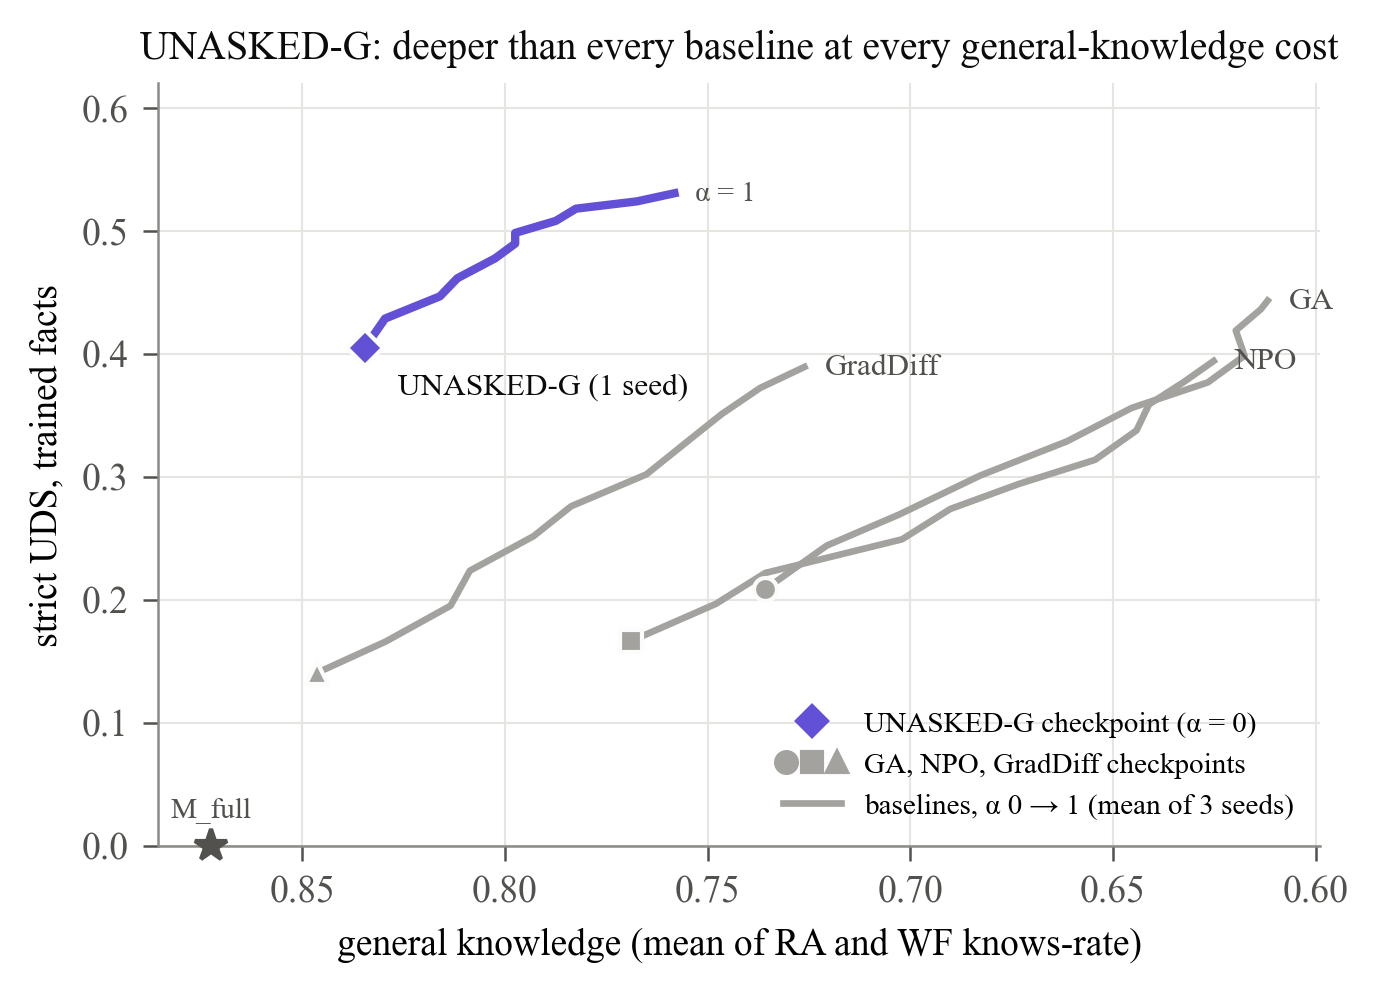
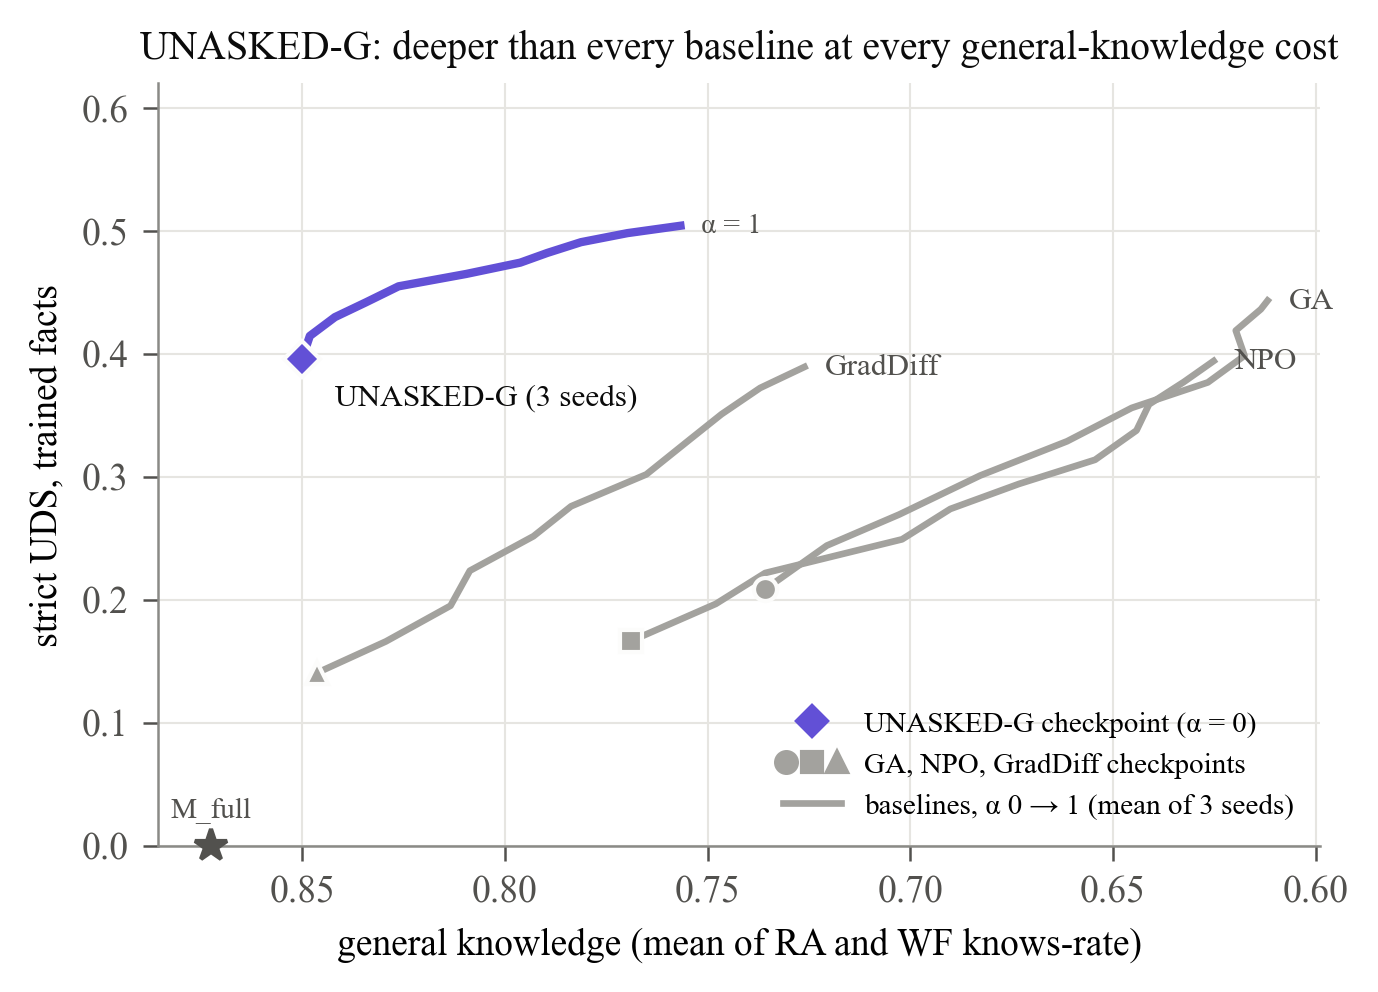
RESULTS 20: UNASKED-G over three seeds, at the checkpoint and at equal utility

Changed region(s): [[0.1872, 0.1875, 0.4993, 0.4062]]

diff --git a/RESULTS.md b/RESULTS.md
@@ -1632,83 +1632,104 @@ UNASKED-G uses λ = 3 (ANALYSIS_PLAN H9).
 
 ---
 
-## 20. UNASKED-G: deeper and broader than GradDiff at its R, short of it on RA (17 Oct 2026, H9, exploratory)
+## 20. UNASKED-G: deeper and broader than GradDiff at equal or better utility (17 Oct 2026, H9, exploratory)
 
 UNASKED-G (`docs/UNASKED.md`, ANALYSIS_PLAN H9) is UNASKED with two anchors:
 * a general-knowledge anchor: 400 real-world QA pairs from Natural Questions,
   none sharing an answer, name or title with an RA/WF item;
 * the TOFU retain anchor at weight 3.
 
-Its criteria C1-C4 against GradDiff were fixed before its first run. Seed 0
-ran on the H100 slice at commit `db84af9`, with the checkpoint at epoch 19.
-R never fell below its starting 0.805 in any epoch.
+Its criteria C1-C4 against GradDiff were fixed before its first run. Three
+seeds ran on the H100 slice (seed 0 at commit `db84af9`; seeds 1-2 after it).
+Every seed kept its last epoch, and R never fell near the floor.
 
-| Checkpoint (α = 0) | Strict UDS, trained | UDS, trained | Breadth, trained | Strict UDS, held-out | Breadth, held-out | R | RA | WF |
-|---|---|---|---|---|---|---|---|---|
-| **UNASKED-G, seed 0** | **0.405** | **0.479** | **0.309** | **0.259** | **0.320** | **0.805** | **0.840** | **0.829** |
-| GradDiff, mean of 3 seeds | 0.141 | 0.146 | 0.169 | 0.060 | 0.191 | 0.768 | 0.863 | 0.829 |
-| GradDiff, range | 0.120-0.158 | 0.121-0.174 | 0.112-0.220 | 0.053-0.071 | 0.119-0.269 | 0.765-0.775 | 0.85-0.88 | 0.821-0.838 |
-| H9 threshold | ≥ 0.26 per seed | | ≥ 0.32 per seed | | | ≥ 0.768 mean | ≥ 0.863 mean | ≥ 0.829 mean |
+### 20.1 At the checkpoint (α = 0), the pre-registered comparison
 
-**On seed 0:**
-* **C1 depth: met.** Strict depth is 2.9× GradDiff's mean.
-* **C2 breadth: missed by 0.011.** Breadth is 1.8× GradDiff's mean.
-* **C3 utility:** R and WF are met, RA is missed by 0.023.
+| | Strict UDS, trained | Breadth, trained | Strict UDS, held-out | Breadth, held-out | R | RA | WF |
+|---|---|---|---|---|---|---|---|
+| UNASKED-G seed 0 | 0.405 | 0.309 | 0.259 | 0.320 | 0.805 | 0.840 | 0.829 |
+| UNASKED-G seed 1 | 0.381 | 0.297 | 0.292 | 0.422 | 0.792 | 0.860 | 0.846 |
+| UNASKED-G seed 2 | 0.402 | 0.430 | 0.315 | 0.409 | 0.785 | 0.870 | 0.855 |
+| **UNASKED-G, mean** | **0.396** | **0.345** | **0.289** | **0.384** | **0.794** | **0.857** | **0.843** |
+| GradDiff, mean | 0.141 | 0.169 | 0.060 | 0.191 | 0.768 | 0.863 | 0.829 |
+| GradDiff, range | 0.120-0.158 | 0.112-0.220 | 0.053-0.071 | 0.119-0.269 | 0.765-0.775 | 0.85-0.88 | 0.821-0.838 |
+| M_full | 0 | 0 | 0 | 0 | 0.805 | 0.890 | 0.855 |
 
-Neither miss is larger than one seed's measurement noise. That is about 0.09
-for calibrated breadth (400 items over a 0.25 calibration gap) and 0.035 for
-RA (100 items, so 0.023 is two to three items).
+Against GradDiff's means, UNASKED-G has:
+* 2.8× the strict depth on trained facts and 4.8× on held-out facts;
+* 2.0× the breadth on trained facts and 2.0× on held-out facts;
+* better R (+0.026) and WF (+0.014), and RA 0.006 below (under one item in
+  100, against a sampling sd of about 0.035).
 
-**By the λ_g rule, seeds 1-2 run at λ_g = 1.** C2 failed, so λ_g = 3 is not
-tried: a stronger general anchor would lower breadth further. Seeds 1-2 and
-the R-matched controls of all three seeds are running.
+**The H9 criteria:**
+* **C1 depth: met.** Every seed is ≥ 0.26, and the mean of 0.396 is ≥ 0.282.
+* **C2 breadth: not met.** The mean of 0.345 clears its bar of 0.338, and
+  seed 2 is at 0.430. But seeds 0 and 1 (0.309 and 0.297) fall below the
+  per-seed bar of 0.32.
+* **C3 utility: not met over three seeds.** RA's mean is 0.857 against
+  0.863, and seed 0's RA of 0.840 is below the 0.85 floor. **It is met on the
+  confirmation seeds 1-2**: R 0.789, RA 0.865, WF 0.850.
+* **C4 beyond damage:** the R-matched controls are running.
 
-1. **The anchors trade breadth for general knowledge, and leave depth.**
-   Seed 0, at the checkpoint:
+### 20.2 At equal utility: UNASKED-G is broader and deeper in every seed (exploratory)
 
-   | | Strict UDS | Breadth | R | RA | WF |
-   |---|---|---|---|---|---|
-   | UNASKED, λ = 1 | 0.452 | 0.423 | 0.772 | 0.72 | 0.735 |
-   | UNASKED, λ = 3 | 0.430 | 0.423 | 0.788 | 0.81 | 0.786 |
-   | UNASKED-G (λ = 3, λ_g = 1) | 0.405 | 0.309 | 0.805 | 0.840 | 0.829 |
+The checkpoints sit at different costs. GradDiff's is held at the R floor.
+UNASKED-G's ends where its 20-epoch budget ends, with R at 0.79-0.805.
+`h9_report` therefore sets each UNASKED-G seed against GradDiff's run of the
+same seed (the same facts) along both α paths. It interpolates GradDiff at
+UNASKED-G's utility and averages the excess over the overlapping range
+(ANALYSIS_PLAN §9, 17 Oct).
 
-   * **Two anchors, two costs.** The TOFU anchor bought RA and WF at no cost
-     in breadth. The general anchor bought more RA and WF, and cost breadth.
-   * **A likely reason.** The general anchor's short answers have the format
-     of the RA/WF options ("William Shakespeare"). It holds the model's
-     question-to-short-answer behaviour, which the forget facts' forced-choice
-     items partly share.
-   * **The target is reached equally either way.** The remaining gap to it
-     levels off at 0.15 with and without the general anchor.
-2. **Along α, UNASKED-G stays above GradDiff on every measure but RA:**
+| Seed | Matched on general knowledge (mean of RA and WF): excess breadth / strict UDS | Matched on R: excess breadth / strict UDS |
+|---|---|---|
+| 0 | +0.235 / +0.186 (10 α) | +0.399 / +0.321 (4 α) |
+| 1 | +0.187 / +0.194 (8 α) | +0.275 / +0.259 (6 α) |
+| 2 | +0.532 / +0.257 (6 α) | +0.386 / +0.175 (9 α) |
 
-   | α | R | RA | WF | Breadth, trained | Strict UDS, trained |
-   |---|---|---|---|---|---|
-   | 0 | 0.805 | 0.840 | 0.829 | 0.309 | 0.405 |
-   | 0.1 | 0.800 | 0.830 | 0.829 | 0.402 | 0.429 |
-   | 0.2 | 0.800 | 0.820 | 0.812 | 0.454 | 0.447 |
-   | 0.5 | 0.792 | 0.800 | 0.795 | 0.588 | 0.490 |
-   | 1 | 0.755 | 0.730 | 0.786 | 0.649 | 0.531 |
+At equal cost, in all three seeds, UNASKED-G forgets more in behaviour (+0.19
+to +0.53 breadth) and deeper (+0.18 to +0.32 strict UDS). Figure 19 shows the
+paths: UNASKED-G's lies above every baseline's at every level of general
+knowledge. Seed 0 along α:
 
-   * **At α = 0.1**, breadth is 0.402, R 0.800 and WF 0.829, all at or above
-     GradDiff's checkpoint, and RA is 0.83.
-   * **Plotted against general knowledge** (figure 19), UNASKED-G's whole path
-     lies above every baseline's. At general knowledge 0.80, GradDiff's path
-     has strict UDS of about 0.25, against UNASKED-G's 0.49.
-   * **The verdicts stay at α = 0**, as pre-registered.
-3. **The depth holds when the answer is reworded.** On the 33 trained facts
-   whose entity occurs verbatim in TOFU's paraphrased answer, the reworded
-   answer is deeper than the original, paired: strict UDS 0.438 against
-   0.353 (UDS 0.482 against 0.355). The same held for UNASKED (§19.6).
-4. **Held-out facts:** strict UDS 0.259 and breadth 0.320, against GradDiff's
-   0.060 and 0.191.
+| α | R | RA | WF | Breadth, trained | Strict UDS, trained |
+|---|---|---|---|---|---|
+| 0 | 0.805 | 0.840 | 0.829 | 0.309 | 0.405 |
+| 0.1 | 0.800 | 0.830 | 0.829 | 0.402 | 0.429 |
+| 0.2 | 0.800 | 0.820 | 0.812 | 0.454 | 0.447 |
+| 0.5 | 0.792 | 0.800 | 0.795 | 0.588 | 0.490 |
+| 1 | 0.755 | 0.730 | 0.786 | 0.649 | 0.531 |
+
+### 20.3 What the anchors do (seed 0)
+
+| | Strict UDS | Breadth | R | RA | WF |
+|---|---|---|---|---|---|
+| UNASKED, λ = 1 | 0.452 | 0.423 | 0.772 | 0.72 | 0.735 |
+| UNASKED, λ = 3 | 0.430 | 0.423 | 0.788 | 0.81 | 0.786 |
+| UNASKED-G (λ = 3, λ_g = 1) | 0.405 | 0.309 | 0.805 | 0.840 | 0.829 |
+
+* **The TOFU anchor bought RA and WF at no cost in breadth.**
+* **The general anchor bought more RA and WF, and cost breadth on this
+  seed.** Its short answers have the format of the RA/WF options, and they
+  hold the model's question-to-short-answer behaviour, which the forget facts'
+  forced-choice items partly share.
+* **The forget target is reached equally either way.** The remaining gap
+  levels off at 0.15 with and without the general anchor.
+
+### 20.4 Robustness checks
+
+* **The depth holds when the answer is reworded.** On seed 0's 33 trained
+  facts whose entity occurs verbatim in TOFU's paraphrased answer, the
+  reworded answer is deeper than the original, paired: strict UDS 0.438
+  against 0.353. The same held for UNASKED (§19.6).
+* **Paraphrased questions:** strict UDS 0.319, 0.355 and 0.333 (seeds 0-2),
+  0.85 of the trained-wording value.
 
 **Still to come:**
 * C4: the R-matched controls of seeds 0-2;
-* seeds 1-2;
-* GradDiff-G, the fairness baseline (GradDiff with the same general anchor);
-* a TOFU anchor of 10 (exploratory, outside the rule);
+* GradDiff-G, GradDiff with the same general anchor (the fairness baseline);
+* a TOFU anchor of 10 (exploratory);
 * relearning dose-responses for UNASKED-G and GradDiff.
 
 Figures 18 (the five measures per seed) and 19 (depth against general
 knowledge) are drawn by `report/make_figures_v2.py`.
+

diff --git a/results/analysis/h9_report.md b/results/analysis/h9_report.md
@@ -1,11 +1,15 @@
 | run | λ_g | seed | strict T | UDS T | breadth T | strict H | breadth H | strict para-Q | R | RA | WF | excess over control |
 |---|---|---|---|---|---|---|---|---|---|---|---|---|
 | study_v2_unaskedg_1B_s0_lr3e-06 | 1 | 0 | 0.405 | 0.479 | 0.309 | 0.259 | 0.320 | 0.319 | 0.805 | 0.840 | 0.829 | – |
+| study_v2_unaskedg_1B_s1_lr3e-06 | 1 | 1 | 0.381 | 0.467 | 0.297 | 0.292 | 0.422 | 0.355 | 0.792 | 0.860 | 0.846 | – |
+| study_v2_unaskedg_1B_s2_lr3e-06 | 1 | 2 | 0.402 | 0.487 | 0.430 | 0.315 | 0.409 | 0.333 | 0.785 | 0.870 | 0.855 | – |
 | study_v2_graddiff_1B_s0_lr5e-08 | – | 0 | 0.144 | 0.144 | 0.175 | 0.053 | 0.184 | – | 0.775 | 0.880 | 0.821 | – |
 | study_v2_graddiff_1B_s1_lr5e-08 | – | 1 | 0.120 | 0.121 | 0.220 | 0.056 | 0.119 | – | 0.765 | 0.860 | 0.829 | – |
 | study_v2_graddiff_1B_s2_lr5e-08 | – | 2 | 0.158 | 0.174 | 0.112 | 0.071 | 0.269 | – | 0.765 | 0.850 | 0.838 | – |
 
-**lr3e-06 (λ_g = 1), all seeds ([0]):** C1 depth met (mean 0.405); C2 breadth not met (mean 0.309); C3 utility not met (R 0.805, RA 0.840, WF 0.829); C4 beyond damage no data
+**lr3e-06 (λ_g = 1), all seeds ([0, 1, 2]):** C1 depth met (mean 0.396); C2 breadth not met (mean 0.345); C3 utility not met (R 0.794, RA 0.857, WF 0.843); C4 beyond damage no data
+
+**lr3e-06 (λ_g = 1), seeds 1-2 ([1, 2]):** C1 depth met (mean 0.392); C2 breadth not met (mean 0.363); C3 utility met (R 0.789, RA 0.865, WF 0.850); C4 beyond damage no data
 
 λ_g rule on seed 0: 1 (none meets C1-C3 on seed 0: higher general knowledge)
 
@@ -14,3 +18,5 @@ Against GradDiff's run of the same seed, at equal utility along both α paths (e
 | run | matched on general knowledge | matched on R |
 |---|---|---|
 | study_v2_unaskedg_1B_s0_lr3e-06 | 0.235 / 0.186 (10) | 0.399 / 0.321 (4) |
+| study_v2_unaskedg_1B_s1_lr3e-06 | 0.187 / 0.194 (8) | 0.275 / 0.259 (6) |
+| study_v2_unaskedg_1B_s2_lr3e-06 | 0.532 / 0.257 (6) | 0.386 / 0.175 (9) |
